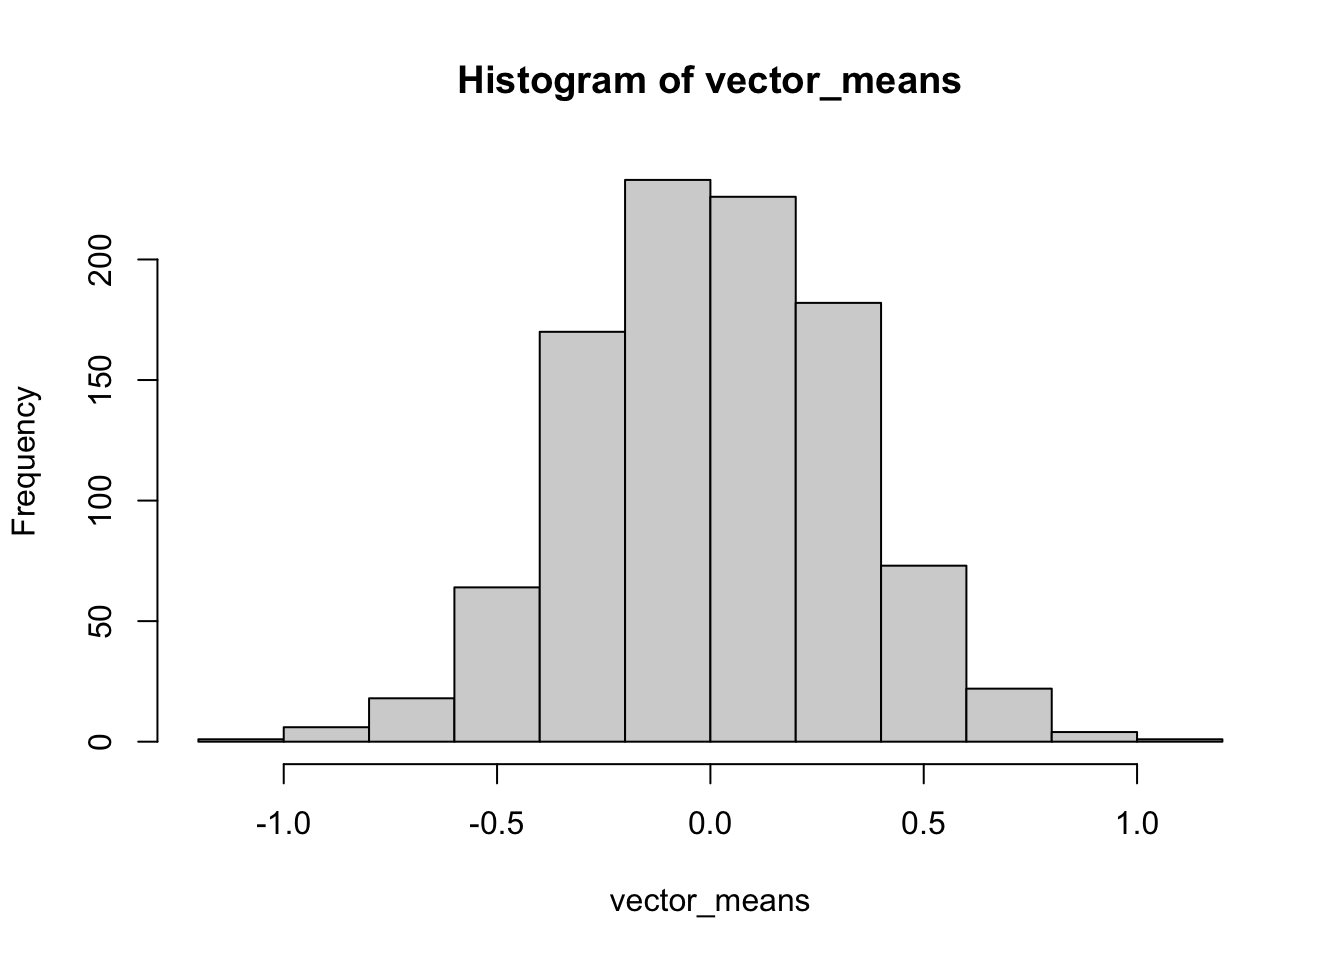
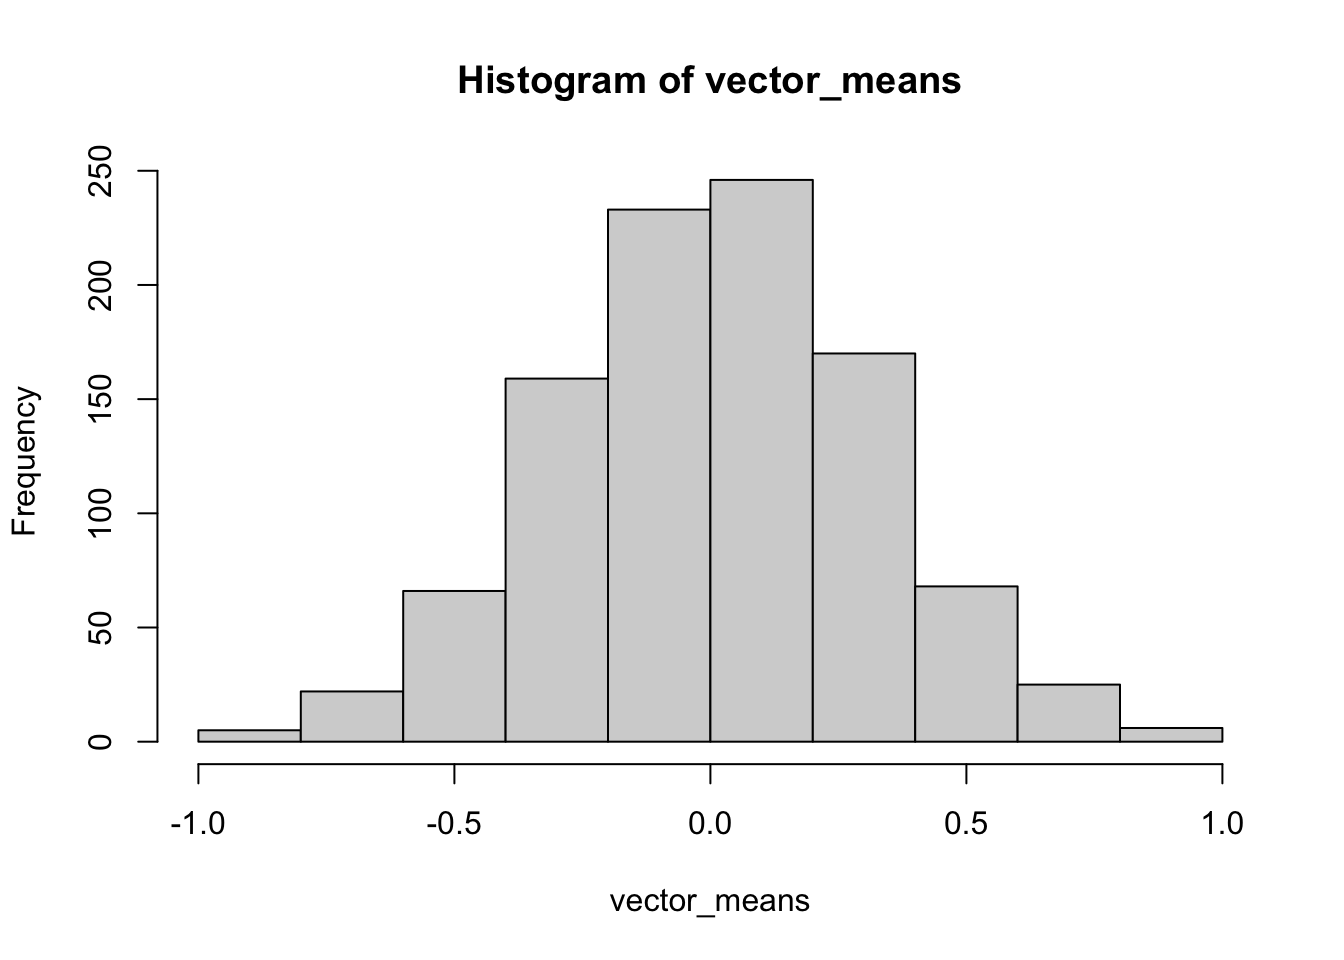
update

diff --git a/docs/lec8.html b/docs/lec8.html
@@ -432,22 +432,22 @@ window.Quarto = {
 <div class="code-copy-outer-scaffold"><div class="sourceCode cell-code" id="cb1"><pre class="sourceCode r code-with-copy"><code class="sourceCode r"><span id="cb1-1"><a href="#cb1-1" aria-hidden="true" tabindex="-1"></a>x<span class="ot">&lt;-</span><span class="fu">rnorm</span>(<span class="dv">10</span>,<span class="dv">0</span>,<span class="dv">1</span>)</span>
 <span id="cb1-2"><a href="#cb1-2" aria-hidden="true" tabindex="-1"></a><span class="fu">mean</span>(x)</span></code></pre></div><button title="Copy to Clipboard" class="code-copy-button"><i class="bi"></i></button></div>
 <div class="cell-output cell-output-stdout">
-<pre><code>[1] -0.146659</code></pre>
+<pre><code>[1] -0.2595567</code></pre>
 </div>
 <div class="code-copy-outer-scaffold"><div class="sourceCode cell-code" id="cb3"><pre class="sourceCode r code-with-copy"><code class="sourceCode r"><span id="cb3-1"><a href="#cb3-1" aria-hidden="true" tabindex="-1"></a>x<span class="ot">&lt;-</span><span class="fu">rnorm</span>(<span class="dv">100</span>,<span class="dv">0</span>,<span class="dv">1</span>)</span>
 <span id="cb3-2"><a href="#cb3-2" aria-hidden="true" tabindex="-1"></a><span class="fu">mean</span>(x)</span></code></pre></div><button title="Copy to Clipboard" class="code-copy-button"><i class="bi"></i></button></div>
 <div class="cell-output cell-output-stdout">
-<pre><code>[1] -0.1469697</code></pre>
+<pre><code>[1] -0.07497953</code></pre>
 </div>
 <div class="code-copy-outer-scaffold"><div class="sourceCode cell-code" id="cb5"><pre class="sourceCode r code-with-copy"><code class="sourceCode r"><span id="cb5-1"><a href="#cb5-1" aria-hidden="true" tabindex="-1"></a>x<span class="ot">&lt;-</span><span class="fu">rnorm</span>(<span class="dv">1000</span>,<span class="dv">0</span>,<span class="dv">1</span>)</span>
 <span id="cb5-2"><a href="#cb5-2" aria-hidden="true" tabindex="-1"></a><span class="fu">mean</span>(x)</span></code></pre></div><button title="Copy to Clipboard" class="code-copy-button"><i class="bi"></i></button></div>
 <div class="cell-output cell-output-stdout">
-<pre><code>[1] 0.002753512</code></pre>
+<pre><code>[1] 0.01332757</code></pre>
 </div>
 <div class="code-copy-outer-scaffold"><div class="sourceCode cell-code" id="cb7"><pre class="sourceCode r code-with-copy"><code class="sourceCode r"><span id="cb7-1"><a href="#cb7-1" aria-hidden="true" tabindex="-1"></a>x<span class="ot">&lt;-</span><span class="fu">rnorm</span>(<span class="dv">10000</span>,<span class="dv">0</span>,<span class="dv">1</span>)</span>
 <span id="cb7-2"><a href="#cb7-2" aria-hidden="true" tabindex="-1"></a><span class="fu">mean</span>(x)</span></code></pre></div><button title="Copy to Clipboard" class="code-copy-button"><i class="bi"></i></button></div>
 <div class="cell-output cell-output-stdout">
-<pre><code>[1] 0.008332831</code></pre>
+<pre><code>[1] 0.01406706</code></pre>
 </div>
 </div>
 <p>Clearly, different samples will give us different sample means. How much do we expect them to vary? We can compute the sample standard deviation of the sample mean as follows:</p>
@@ -458,7 +458,7 @@ window.Quarto = {
 <span id="cb9-4"><a href="#cb9-4" aria-hidden="true" tabindex="-1"></a>}</span>
 <span id="cb9-5"><a href="#cb9-5" aria-hidden="true" tabindex="-1"></a><span class="fu">sqrt</span>(<span class="fu">var</span>(vector_means))</span></code></pre></div><button title="Copy to Clipboard" class="code-copy-button"><i class="bi"></i></button></div>
 <div class="cell-output cell-output-stdout">
-<pre><code>[1] 0.3148703</code></pre>
+<pre><code>[1] 0.3131325</code></pre>
 </div>
 <div class="code-copy-outer-scaffold"><div class="sourceCode cell-code" id="cb11"><pre class="sourceCode r code-with-copy"><code class="sourceCode r"><span id="cb11-1"><a href="#cb11-1" aria-hidden="true" tabindex="-1"></a><span class="fu">hist</span>(vector_means)</span></code></pre></div><button title="Copy to Clipboard" class="code-copy-button"><i class="bi"></i></button></div>
 <div class="cell-output-display">
@@ -484,7 +484,7 @@ window.Quarto = {
 <span id="cb14-4"><a href="#cb14-4" aria-hidden="true" tabindex="-1"></a>}</span>
 <span id="cb14-5"><a href="#cb14-5" aria-hidden="true" tabindex="-1"></a><span class="fu">sqrt</span>(<span class="fu">var</span>(vector_means))</span></code></pre></div><button title="Copy to Clipboard" class="code-copy-button"><i class="bi"></i></button></div>
 <div class="cell-output cell-output-stdout">
-<pre><code>[1] 0.3475113</code></pre>
+<pre><code>[1] 0.3530227</code></pre>
 </div>
 <div class="code-copy-outer-scaffold"><div class="sourceCode cell-code" id="cb16"><pre class="sourceCode r code-with-copy"><code class="sourceCode r"><span id="cb16-1"><a href="#cb16-1" aria-hidden="true" tabindex="-1"></a><span class="fu">hist</span>(vector_means)</span></code></pre></div><button title="Copy to Clipboard" class="code-copy-button"><i class="bi"></i></button></div>
 <div class="cell-output-display">

diff --git a/docs/lec6.html b/docs/lec6.html
@@ -500,14 +500,14 @@ Suppose we want to simulate a sequence of 15 fair tosses using R. To get the out
 <div class="cell">
 <div class="code-copy-outer-scaffold"><div class="sourceCode cell-code" id="cb3"><pre class="sourceCode r code-with-copy"><code class="sourceCode r"><span id="cb3-1"><a href="#cb3-1" aria-hidden="true" tabindex="-1"></a><span class="fu">rbinom</span>(<span class="dv">15</span>, <span class="at">prob =</span> <span class="fl">0.5</span>, <span class="at">size =</span> <span class="dv">1</span>)</span></code></pre></div><button title="Copy to Clipboard" class="code-copy-button"><i class="bi"></i></button></div>
 <div class="cell-output cell-output-stdout">
-<pre><code> [1] 0 0 0 0 0 0 1 1 0 1 1 1 0 1 0</code></pre>
+<pre><code> [1] 1 0 0 1 1 1 1 0 1 0 1 1 0 1 1</code></pre>
 </div>
 </div>
 <p>Now observe the outcome when using a biased coin that lands heads 70% of the time:</p>
 <div class="cell">
 <div class="code-copy-outer-scaffold"><div class="sourceCode cell-code" id="cb5"><pre class="sourceCode r code-with-copy"><code class="sourceCode r"><span id="cb5-1"><a href="#cb5-1" aria-hidden="true" tabindex="-1"></a><span class="fu">rbinom</span>(<span class="dv">15</span>, <span class="at">prob =</span> <span class="fl">0.7</span>, <span class="at">size =</span> <span class="dv">1</span>)</span></code></pre></div><button title="Copy to Clipboard" class="code-copy-button"><i class="bi"></i></button></div>
 <div class="cell-output cell-output-stdout">
-<pre><code> [1] 1 1 1 1 1 1 0 1 0 0 1 1 1 1 1</code></pre>
+<pre><code> [1] 1 1 1 1 0 1 0 0 1 0 1 1 1 1 0</code></pre>
 </div>
 </div>
 <p><em>Question.</em> Note that when you call the function above several times, you get different outcomes. Why is that?</p>
@@ -520,7 +520,7 @@ Suppose we want to simulate a sequence of 15 fair tosses using R. To get the out
 <div class="cell">
 <div class="code-copy-outer-scaffold"><div class="sourceCode cell-code" id="cb7"><pre class="sourceCode r code-with-copy"><code class="sourceCode r"><span id="cb7-1"><a href="#cb7-1" aria-hidden="true" tabindex="-1"></a><span class="fu">rbinom</span>(<span class="dv">1</span>, <span class="at">prob =</span> <span class="fl">0.7</span>, <span class="at">size =</span> <span class="dv">15</span>)</span></code></pre></div><button title="Copy to Clipboard" class="code-copy-button"><i class="bi"></i></button></div>
 <div class="cell-output cell-output-stdout">
-<pre><code>[1] 14</code></pre>
+<pre><code>[1] 8</code></pre>
 </div>
 </div>
 <p>The sum of multiple independent (or exchangeable) Bernoulli trials is called the <strong>Binomial distribution</strong> (in the example above, how many heads in 15 flips). That is, the number of successes in 15 Bernoulli trials with a probability of success of 0.7 is called a <strong>binomial</strong> random variable, or a random variable that follows the B(15, 0.7) distribution. We can generate binomial samples in R as follows:</p>

diff --git a/docs/Week2_section.html b/docs/Week2_section.html
@@ -600,11 +600,11 @@ window.Quarto = {
 <div class="code-copy-outer-scaffold"><div class="sourceCode cell-code" id="cb16"><pre class="sourceCode r code-with-copy"><code class="sourceCode r"><span id="cb16-1"><a href="#cb16-1" aria-hidden="true" tabindex="-1"></a><span class="co"># Scenario 1:</span></span>
 <span id="cb16-2"><a href="#cb16-2" aria-hidden="true" tabindex="-1"></a><span class="fu">sample</span>(<span class="fu">c</span>(<span class="dv">0</span>, <span class="dv">1</span>), <span class="at">size =</span> <span class="dv">10</span>, <span class="at">replace =</span> <span class="cn">TRUE</span>)</span></code></pre></div><button title="Copy to Clipboard" class="code-copy-button"><i class="bi"></i></button></div>
 <div class="cell-output cell-output-stdout">
-<pre><code> [1] 0 0 1 1 0 0 0 1 0 0</code></pre>
+<pre><code> [1] 1 1 1 0 1 1 1 0 0 0</code></pre>
 </div>
 <div class="code-copy-outer-scaffold"><div class="sourceCode cell-code" id="cb18"><pre class="sourceCode r code-with-copy"><code class="sourceCode r"><span id="cb18-1"><a href="#cb18-1" aria-hidden="true" tabindex="-1"></a><span class="fu">sample</span>(<span class="fu">c</span>(<span class="dv">0</span>, <span class="dv">1</span>), <span class="at">size =</span> <span class="dv">10</span>, <span class="at">replace =</span> <span class="cn">TRUE</span>)</span></code></pre></div><button title="Copy to Clipboard" class="code-copy-button"><i class="bi"></i></button></div>
 <div class="cell-output cell-output-stdout">
-<pre><code> [1] 1 0 1 1 0 1 1 1 0 1</code></pre>
+<pre><code> [1] 1 1 1 1 0 0 0 1 1 0</code></pre>
 </div>
 <div class="code-copy-outer-scaffold"><div class="sourceCode cell-code" id="cb20"><pre class="sourceCode r code-with-copy"><code class="sourceCode r"><span id="cb20-1"><a href="#cb20-1" aria-hidden="true" tabindex="-1"></a><span class="co"># Scenario 2:</span></span>
 <span id="cb20-2"><a href="#cb20-2" aria-hidden="true" tabindex="-1"></a><span class="fu">set.seed</span>(<span class="dv">123</span>)</span>

diff --git a/docs/Week3_section.html b/docs/Week3_section.html
@@ -490,11 +490,11 @@ window.Quarto = {
 <div class="code-copy-outer-scaffold"><div class="sourceCode cell-code" id="cb4"><pre class="sourceCode r code-with-copy"><code class="sourceCode r"><span id="cb4-1"><a href="#cb4-1" aria-hidden="true" tabindex="-1"></a><span class="co"># Scenario 1:</span></span>
 <span id="cb4-2"><a href="#cb4-2" aria-hidden="true" tabindex="-1"></a><span class="fu">sample</span>(<span class="fu">c</span>(<span class="dv">1</span>, <span class="dv">0</span>), <span class="at">size =</span> <span class="dv">10</span>, <span class="at">replace =</span> <span class="cn">TRUE</span>)</span></code></pre></div><button title="Copy to Clipboard" class="code-copy-button"><i class="bi"></i></button></div>
 <div class="cell-output cell-output-stdout">
-<pre><code> [1] 0 1 0 0 1 0 1 1 1 1</code></pre>
+<pre><code> [1] 0 1 0 1 0 1 0 0 0 0</code></pre>
 </div>
 <div class="code-copy-outer-scaffold"><div class="sourceCode cell-code" id="cb6"><pre class="sourceCode r code-with-copy"><code class="sourceCode r"><span id="cb6-1"><a href="#cb6-1" aria-hidden="true" tabindex="-1"></a><span class="fu">sample</span>(<span class="fu">c</span>(<span class="dv">1</span>, <span class="dv">0</span>), <span class="at">size =</span> <span class="dv">10</span>, <span class="at">replace =</span> <span class="cn">TRUE</span>)</span></code></pre></div><button title="Copy to Clipboard" class="code-copy-button"><i class="bi"></i></button></div>
 <div class="cell-output cell-output-stdout">
-<pre><code> [1] 0 1 0 0 1 1 1 0 1 0</code></pre>
+<pre><code> [1] 0 1 1 0 1 1 0 0 1 0</code></pre>
 </div>
 <div class="code-copy-outer-scaffold"><div class="sourceCode cell-code" id="cb8"><pre class="sourceCode r code-with-copy"><code class="sourceCode r"><span id="cb8-1"><a href="#cb8-1" aria-hidden="true" tabindex="-1"></a><span class="co"># Scenario 2:</span></span>
 <span id="cb8-2"><a href="#cb8-2" aria-hidden="true" tabindex="-1"></a><span class="fu">set.seed</span>(<span class="dv">123</span>)</span>

diff --git a/docs/lec5.html b/docs/lec5.html
@@ -535,14 +535,14 @@ Suppose we want to simulate a sequence of 15 fair tosses using R. To get the out
 <div class="cell">
 <div class="code-copy-outer-scaffold"><div class="sourceCode cell-code" id="cb3"><pre class="sourceCode r code-with-copy"><code class="sourceCode r"><span id="cb3-1"><a href="#cb3-1" aria-hidden="true" tabindex="-1"></a><span class="fu">rbinom</span>(<span class="dv">15</span>, <span class="at">prob =</span> <span class="fl">0.5</span>, <span class="at">size =</span> <span class="dv">1</span>)</span></code></pre></div><button title="Copy to Clipboard" class="code-copy-button"><i class="bi"></i></button></div>
 <div class="cell-output cell-output-stdout">
-<pre><code> [1] 0 1 1 1 1 1 1 1 0 0 0 1 0 0 1</code></pre>
+<pre><code> [1] 0 1 1 1 1 0 1 1 0 0 1 1 1 1 1</code></pre>
 </div>
 </div>
 <p>Now observe the outcome when using a biased coin that lands heads 70% of the time:</p>
 <div class="cell">
 <div class="code-copy-outer-scaffold"><div class="sourceCode cell-code" id="cb5"><pre class="sourceCode r code-with-copy"><code class="sourceCode r"><span id="cb5-1"><a href="#cb5-1" aria-hidden="true" tabindex="-1"></a><span class="fu">rbinom</span>(<span class="dv">15</span>, <span class="at">prob =</span> <span class="fl">0.7</span>, <span class="at">size =</span> <span class="dv">1</span>)</span></code></pre></div><button title="Copy to Clipboard" class="code-copy-button"><i class="bi"></i></button></div>
 <div class="cell-output cell-output-stdout">
-<pre><code> [1] 1 1 1 0 1 1 1 0 1 1 0 0 1 1 1</code></pre>
+<pre><code> [1] 1 0 0 1 0 0 1 1 1 1 1 1 1 1 0</code></pre>
 </div>
 </div>
 <p><em>Question.</em> Note that when you call the function above several times, you get different outcomes. Why is that?</p>

diff --git a/docs/lec4.html b/docs/lec4.html
@@ -464,8 +464,8 @@ window.Quarto = {
 </div>
 <div class="code-copy-outer-scaffold"><div class="sourceCode cell-code" id="cb4"><pre class="sourceCode r code-with-copy"><code class="sourceCode r"><span id="cb4-1"><a href="#cb4-1" aria-hidden="true" tabindex="-1"></a><span class="fu">sample</span>(x,<span class="dv">10</span>)</span></code></pre></div><button title="Copy to Clipboard" class="code-copy-button"><i class="bi"></i></button></div>
 <div class="cell-output cell-output-stdout">
-<pre><code> [1] 69.56779 66.96738 66.90986 67.83401 65.92199 70.48646 62.41134 69.86911
- [9] 67.99167 69.67201</code></pre>
+<pre><code> [1] 67.38837 70.26613 68.26078 66.48386 65.43021 66.43436 73.49987 61.07369
+ [9] 72.16894 69.42186</code></pre>
 </div>
 </div>
 <p>Another, more compact and descriptive way to represent the data is by using a <strong>histogram</strong>. Histograms show the proportion of values within intervals, <span class="math inline">\((a, b)\)</span>. In the previous example, plotting the heights as bars is more illustrative because we are usually more interested in intervals, such as the percentage of people whose heights fall between 70 and 71 inches. Histograms are also useful for describing different families of distributions. Here is the histogram of the height data:</p>

diff --git a/docs/Week3A.html b/docs/Week3A.html
@@ -335,6 +335,8 @@ ul.task-list li input[type="checkbox"] {
 <li><p>What is the probability that all 8 cases will be detected?</p></li>
 <li><p>What is the probability that only one case will be missed?</p></li>
 <li><p>What is the probability that two or more cases will be missed?</p></li>
+<li><p>What is the expected number of people with the disease?</p></li>
+<li><p>What is the standard deviation?</p></li>
 </ol></li>
 </ol>
 
